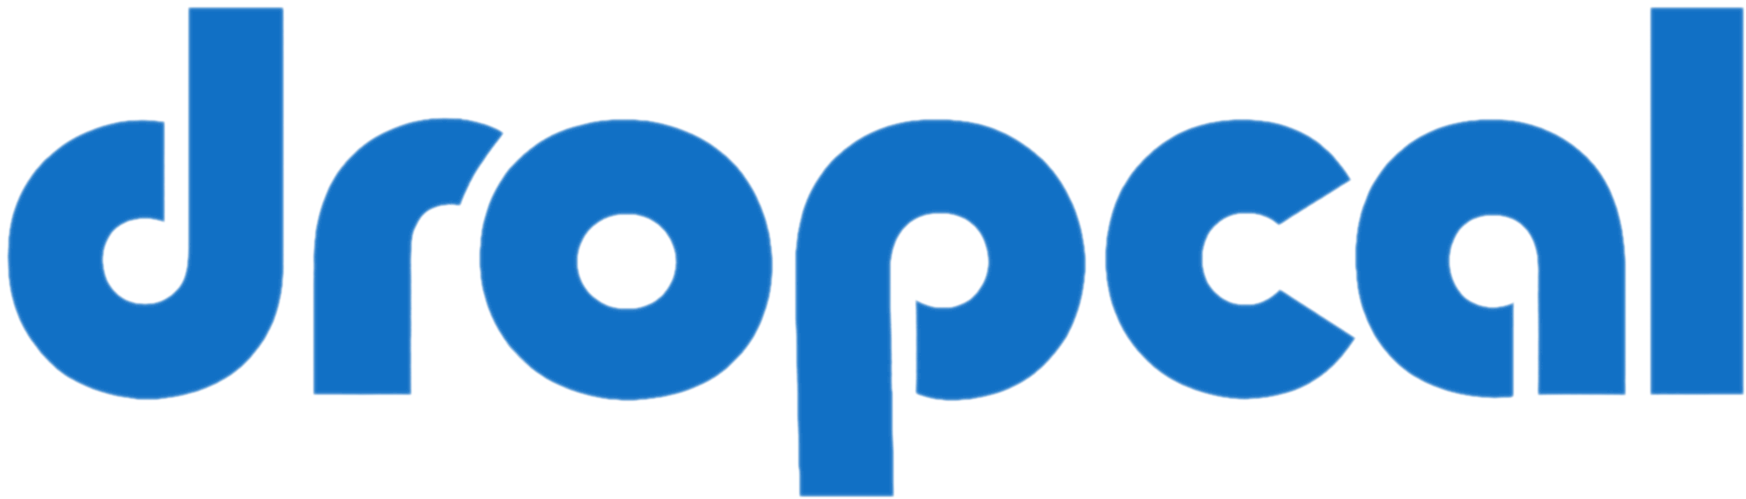
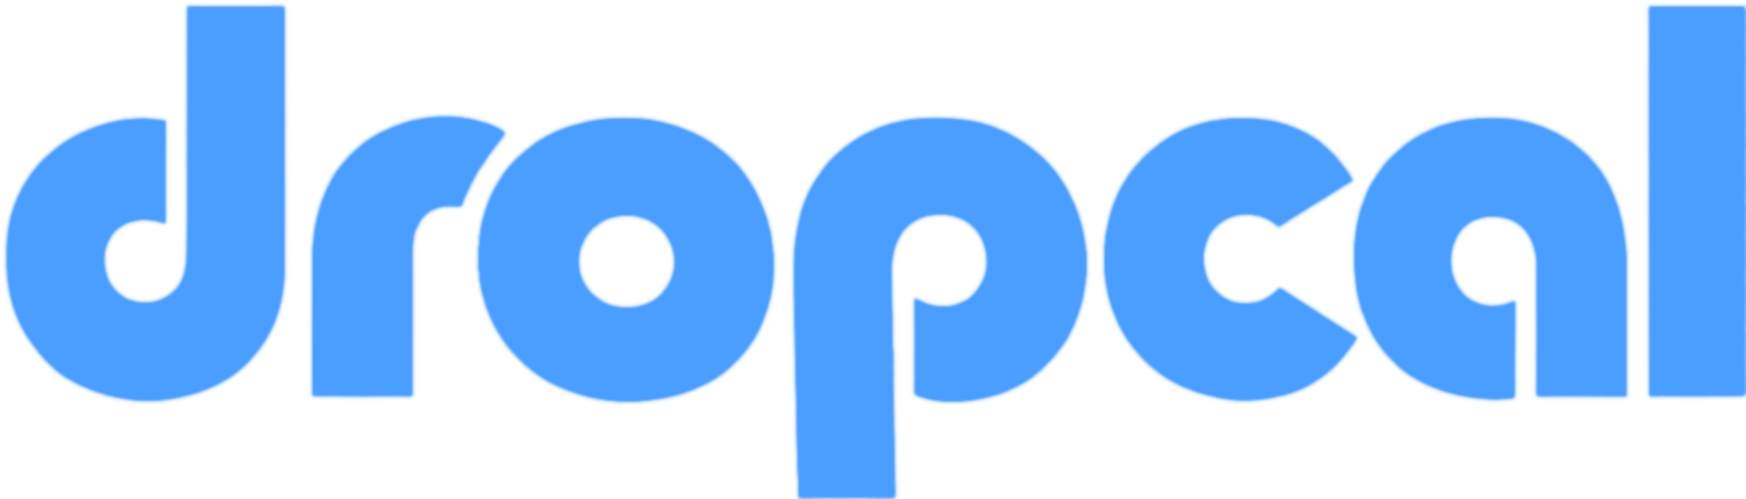
Color theme improvement

diff --git a/frontend/src/App.tsx b/frontend/src/App.tsx
@@ -15,8 +15,7 @@ import {
   useNotifications,
   createValidationErrorNotification,
   createSuccessNotification,
-  createErrorNotification,
-  createWarningNotification
+  createErrorNotification
 } from './workspace/input/notifications'
 import type { CalendarEvent, LoadingStateConfig } from './workspace/events/types'
 import { LOADING_MESSAGES } from './workspace/events/types'
@@ -35,10 +34,6 @@ import {
 } from './api/backend-client'
 import { syncCalendar } from './api/sync'
 import './App.css'
-
-// Import all greeting images dynamically
-const greetingImages = import.meta.glob('./assets/greetings/*.{png,jpg,jpeg,svg}', { eager: true, as: 'url' })
-const greetingImagePaths = Object.values(greetingImages) as string[]
 
 type AppState = 'input' | 'loading' | 'review'
 
@@ -60,9 +55,6 @@ function AppContent() {
   const { sessionId } = useParams<{ sessionId?: string }>()
   const { addNotification } = useNotifications()
 
-  const [currentGreetingIndex] = useState(() =>
-    Math.floor(Math.random() * greetingImagePaths.length)
-  )
   const [appState, setAppState] = useState<AppState>('input')
   const [isProcessing, setIsProcessing] = useState(false)
   const [calendarEvents, setCalendarEvents] = useState<CalendarEvent[]>([])
@@ -276,7 +268,6 @@ function AppContent() {
       }
 
     } catch (error) {
-      const errorMessage = error instanceof Error ? error.message : 'Unknown error'
       addNotification(createErrorNotification("Oops! Something went wrong. Mind trying that again?"))
       setAppState('input')
     } finally {
@@ -355,7 +346,6 @@ function AppContent() {
       }
 
     } catch (error) {
-      const errorMessage = error instanceof Error ? error.message : 'Unknown error'
       addNotification(createErrorNotification("Oops! Something went wrong. Mind trying that again?"))
       setAppState('input')
     } finally {
@@ -514,7 +504,6 @@ function AppContent() {
           isProcessing={isProcessing}
           loadingConfig={[loadingConfig]}
           feedbackMessage={feedbackMessage}
-          greetingImage={greetingImagePaths[currentGreetingIndex]}
           isGuestMode={isGuestMode}
           calendarEvents={calendarEvents}
           expectedEventCount={calendarEvents.length}
@@ -522,7 +511,6 @@ function AppContent() {
           onAudioSubmit={handleAudioSubmit}
           onTextSubmit={handleTextSubmit}
           onClearFile={handleClearFile}
-          onClearFeedback={() => setFeedbackMessage('')}
           onConfirm={handleAddToCalendar}
           onMenuToggle={handleSidebarToggle}
           onNewSession={handleNewSession}

diff --git a/frontend/src/workspace/Workspace.tsx b/frontend/src/workspace/Workspace.tsx
@@ -1,11 +1,12 @@
 import { motion } from 'framer-motion'
-import { Sidebar, CalendarStar, Drop } from '@phosphor-icons/react'
+import { Sidebar, CalendarStar } from '@phosphor-icons/react'
 import { InputWorkspace } from './input'
 import { EventsWorkspace } from './events/EventsWorkspace'
 import type { CalendarEvent } from './events/types'
 import type { LoadingStateConfig } from './events/types'
 import { getGreeting } from '../utils/greetings'
 import { useAuth } from '../auth/AuthContext'
+import { Logo } from '../components/Logo'
 
 type AppState = 'input' | 'loading' | 'review'
 
@@ -18,7 +19,6 @@ interface WorkspaceProps {
   isProcessing: boolean
   loadingConfig?: LoadingStateConfig | LoadingStateConfig[]
   feedbackMessage?: string
-  greetingImage?: string
   isGuestMode?: boolean
 
   // Events state props
@@ -30,7 +30,6 @@ interface WorkspaceProps {
   onAudioSubmit: (audioBlob: Blob) => void
   onTextSubmit: (text: string) => void
   onClearFile: () => void
-  onClearFeedback?: () => void
   onConfirm?: () => void
   onMenuToggle?: () => void
   onNewSession?: () => void
@@ -42,7 +41,6 @@ export function Workspace({
   isProcessing,
   loadingConfig,
   feedbackMessage,
-  greetingImage,
   isGuestMode,
   calendarEvents,
   expectedEventCount,
@@ -50,13 +48,12 @@ export function Workspace({
   onAudioSubmit,
   onTextSubmit,
   onClearFile,
-  onClearFeedback,
   onConfirm,
   onMenuToggle,
   onNewSession,
 }: WorkspaceProps) {
   const { user } = useAuth()
-  const greeting = getGreeting(user?.name)
+  const greeting = getGreeting(user?.user_metadata?.full_name || user?.user_metadata?.name)
 
   return (
     <>
@@ -81,10 +78,8 @@ export function Workspace({
           transition={{ duration: 0.4, ease: "easeOut" }}
         >
           <div className="greeting-row">
-            <Drop
+            <Logo
               size={48}
-              weight="fill"
-              color="#1170C5"
               className="greeting-logo"
             />
             <h1 className="greeting-text">{greeting}</h1>

diff --git a/frontend/src/menu/Menu.tsx b/frontend/src/menu/Menu.tsx
@@ -1,5 +1,5 @@
 import { useState, useEffect } from 'react'
-import { SidebarSimple as SidebarIcon, CalendarBlank, CalendarStar, ArrowSquareOut, Images, Files, Pen, Microphone, CaretCircleRight, GoogleLogo, MicrosoftOutlookLogo, AppleLogo, Drop } from '@phosphor-icons/react'
+import { SidebarSimple as SidebarIcon, CalendarBlank, CalendarStar, ArrowSquareOut, Images, Files, Pen, Microphone, CaretCircleRight, GoogleLogo, MicrosoftOutlookLogo, AppleLogo } from '@phosphor-icons/react'
 import type { SessionListItem } from '../sessions'
 import type { InputType } from '../sessions'
 import { Account } from './Account'
@@ -7,9 +7,8 @@ import { MenuButton } from './MenuButton'
 import { SkeletonSessionGroup } from '../components/skeletons'
 import { getCalendarProviders } from '../api/backend-client'
 import { Tooltip } from '../components/Tooltip'
-import { useAuth } from '../auth/AuthContext'
-import { GuestSessionManager } from '../auth/GuestSessionManager'
 import { useTheme } from '../theme/ThemeProvider'
+import { Logo } from '../components/Logo'
 import './Menu.css'
 import wordImageLight from '../assets/brand/light/word.png'
 import wordImageDark from '../assets/brand/dark/word.png'
@@ -34,7 +33,6 @@ export function Menu({
   onNewSession,
   isLoadingSessions = false,
 }: MenuProps) {
-  const { user } = useAuth()
   const { themeMode } = useTheme()
 
   // Select brand images based on theme
@@ -152,7 +150,7 @@ export function Menu({
         onClick={onToggle}
         title="DropCal"
       >
-        <Drop size={32} weight="fill" color="#1170C5" />
+        <Logo size={32} />
       </button>
 
       {/* Dock when sidebar is closed */}
@@ -179,7 +177,7 @@ export function Menu({
           onClick={onToggle}
           title="DropCal"
         >
-          <Drop size={32} weight="fill" color="#1170C5" />
+          <Logo size={32} />
         </button>
 
         <div className="sidebar-header">

diff --git a/frontend/src/components/Logo.tsx b/frontend/src/components/Logo.tsx
@@ -1,0 +1,26 @@
+interface LogoProps {
+  size?: number
+  className?: string
+}
+
+/**
+ * DropCal logo component - uses theme-aware primary color
+ * Defined once, reused throughout the app
+ */
+export function Logo({ size = 32, className }: LogoProps) {
+  return (
+    <svg
+      xmlns="http://www.w3.org/2000/svg"
+      width={size}
+      height={size}
+      viewBox="0 0 256 256"
+      className={className}
+      style={{ color: 'var(--primary)' }}
+    >
+      <path
+        fill="currentColor"
+        d="M174,47.75a254.19,254.19,0,0,0-41.45-38.3,8,8,0,0,0-9.18,0A254.19,254.19,0,0,0,82,47.75C54.51,79.32,40,112.6,40,144a88,88,0,0,0,176,0C216,112.6,201.49,79.32,174,47.75Zm9.85,105.59a57.6,57.6,0,0,1-46.56,46.55A8.75,8.75,0,0,1,136,200a8,8,0,0,1-1.32-15.89c16.57-2.79,30.63-16.85,33.44-33.45a8,8,0,0,1,15.78,2.68Z"
+      />
+    </svg>
+  )
+}

diff --git a/frontend/src/welcome/Welcome.tsx b/frontend/src/welcome/Welcome.tsx
@@ -1,5 +1,6 @@
 import { useNavigate } from 'react-router-dom'
-import { Mailbox, FingerprintSimple, ShootingStar, Link, Drop } from '@phosphor-icons/react'
+import { Mailbox, FingerprintSimple, ShootingStar, Link } from '@phosphor-icons/react'
+import { Logo } from '../components/Logo'
 import wordImageLight from '../assets/brand/light/word.png'
 import './Welcome.css'
 
@@ -10,7 +11,7 @@ export function Welcome() {
     <div className="welcome">
       <header className="welcome-header">
         <div className="welcome-logo">
-          <Drop size={32} weight="fill" color="#1170C5" />
+          <Logo size={32} />
           <img src={wordImageLight} alt="DropCal" className="welcome-word" />
         </div>
         <nav className="welcome-nav">

diff --git a/frontend/src/NotFound.tsx b/frontend/src/NotFound.tsx
@@ -1,5 +1,6 @@
 import { useNavigate } from 'react-router-dom'
-import { Drop, Lifebuoy, Link } from '@phosphor-icons/react'
+import { Lifebuoy, Link } from '@phosphor-icons/react'
+import { Logo } from './components/Logo'
 import wordImageLight from './assets/brand/light/word.png'
 import './NotFound.css'
 
@@ -10,7 +11,7 @@ export function NotFound() {
     <div className="not-found">
       <div className="not-found-content">
         <div className="not-found-logo">
-          <Drop size={32} weight="fill" color="#1170C5" />
+          <Logo size={32} />
           <img src={wordImageLight} alt="DropCal" className="not-found-word" />
         </div>
         <h1 className="not-found-title">404</h1>

diff --git a/frontend/src/workspace/events/EventsWorkspace.tsx b/frontend/src/workspace/events/EventsWorkspace.tsx
@@ -9,8 +9,8 @@ import { Event } from './Event'
 import { DateHeader, MonthHeader } from './DateHeader'
 import { EventEditView } from './EventEditView'
 import { useTheme } from '../../theme/ThemeProvider'
-import wordmarkImageLight from '../../assets/brand/light/wordmark.png'
-import wordmarkImageDark from '../../assets/brand/dark/wordmark.png'
+import wordmarkImageLight from '../../assets/brand/light/word.png'
+import wordmarkImageDark from '../../assets/brand/dark/word.png'
 import './EventsWorkspace.css'
 import {
   listContainerVariants,

diff --git a/frontend/src/workspace/input/notifications/types.ts b/frontend/src/workspace/input/notifications/types.ts
@@ -1,10 +1,13 @@
-import { Icon } from '@phosphor-icons/react'
+import type { Icon } from '@phosphor-icons/react'
+
+export type NotificationVariant = 'success' | 'error' | 'warning' | 'info'
 
 export interface Notification {
   id: string
   icon: Icon
   iconWeight?: 'thin' | 'light' | 'regular' | 'bold' | 'fill' | 'duotone'
   message: string
+  variant?: NotificationVariant
   persistent?: boolean // If true, will reappear after dismissing other notifications
   priority?: number // Higher priority shows first (default: 0)
 }

diff --git a/frontend/src/workspace/input/notifications/NotificationContext.tsx b/frontend/src/workspace/input/notifications/NotificationContext.tsx
@@ -1,4 +1,5 @@
-import { createContext, useContext, ReactNode } from 'react'
+import { createContext, useContext } from 'react'
+import type { ReactNode } from 'react'
 import { useNotificationQueue } from './useNotificationQueue'
 import type { Notification } from './types'
 

diff --git a/frontend/src/workspace/input/notifications/useNotificationQueue.ts b/frontend/src/workspace/input/notifications/useNotificationQueue.ts
@@ -1,4 +1,4 @@
-import { useState, useCallback, useEffect } from 'react'
+import { useState, useCallback } from 'react'
 import type { Notification } from './types'
 
 export function useNotificationQueue() {
